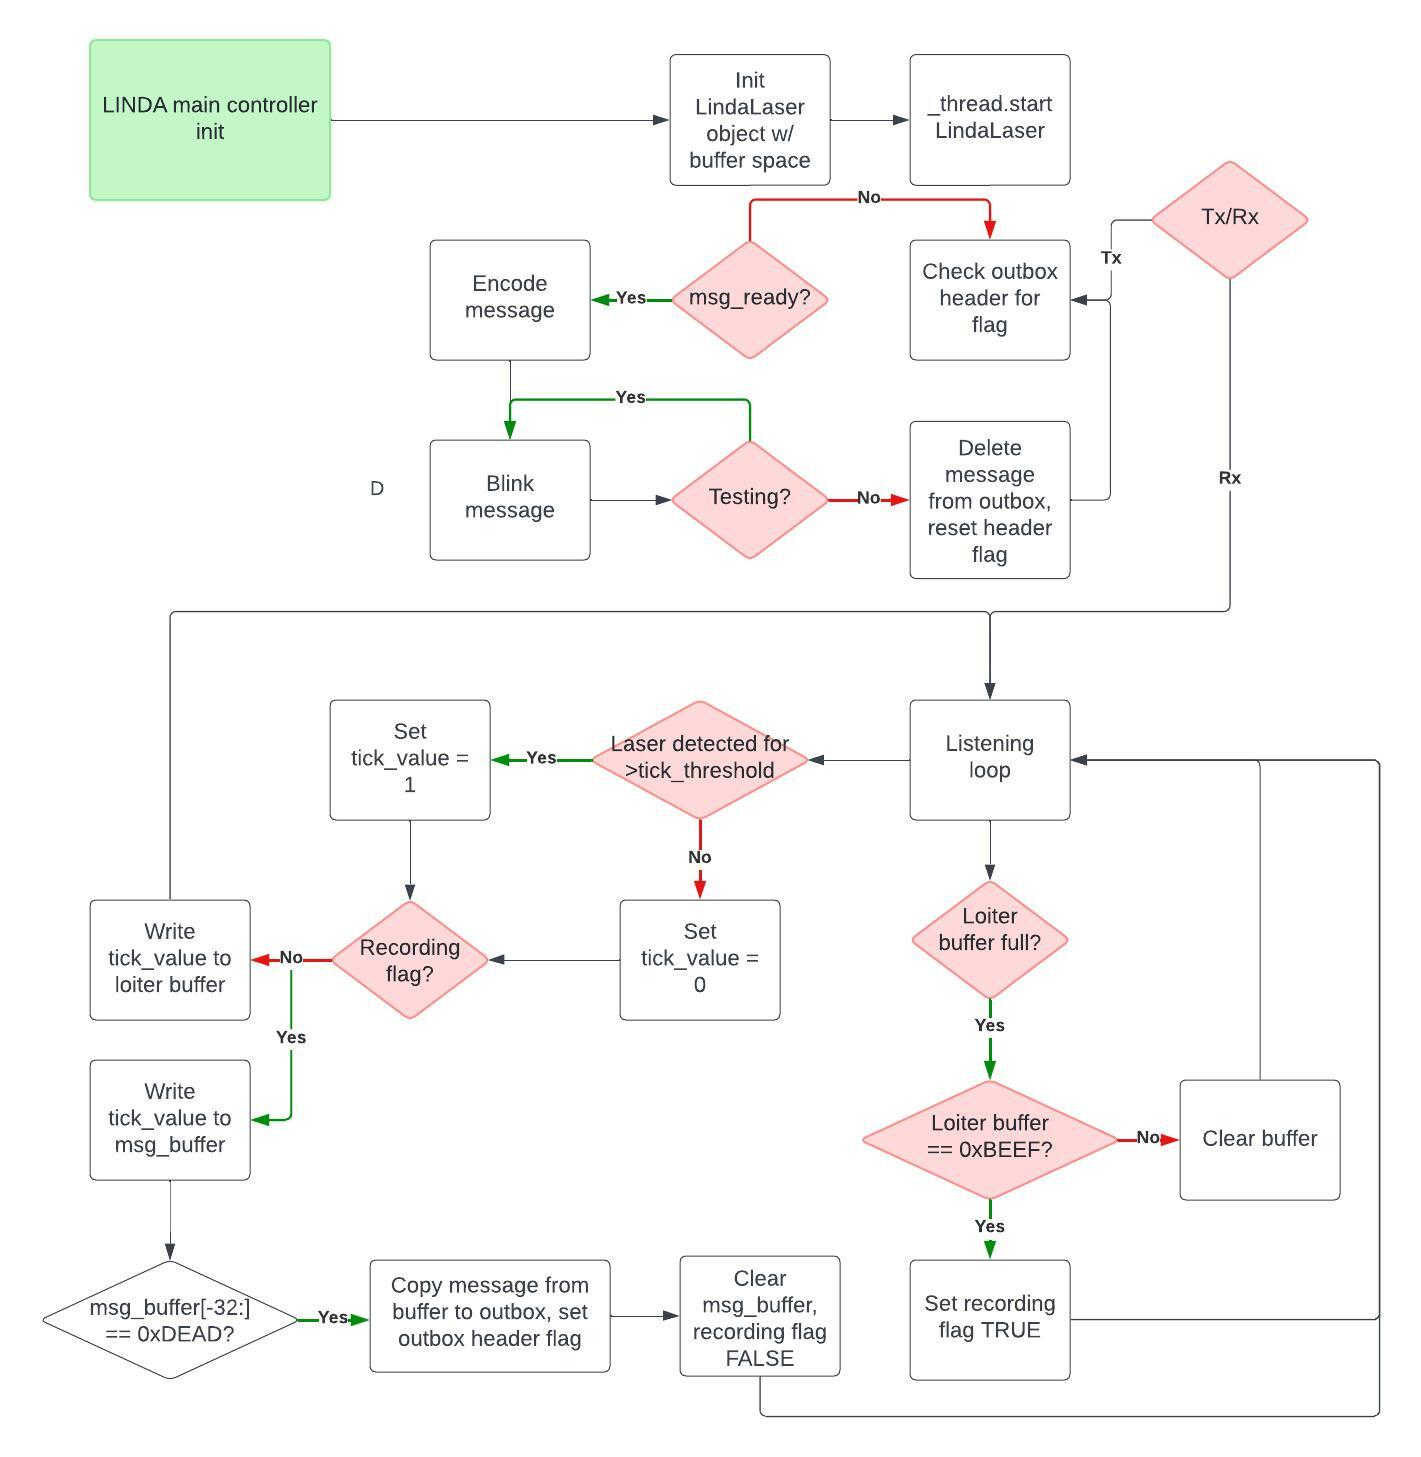
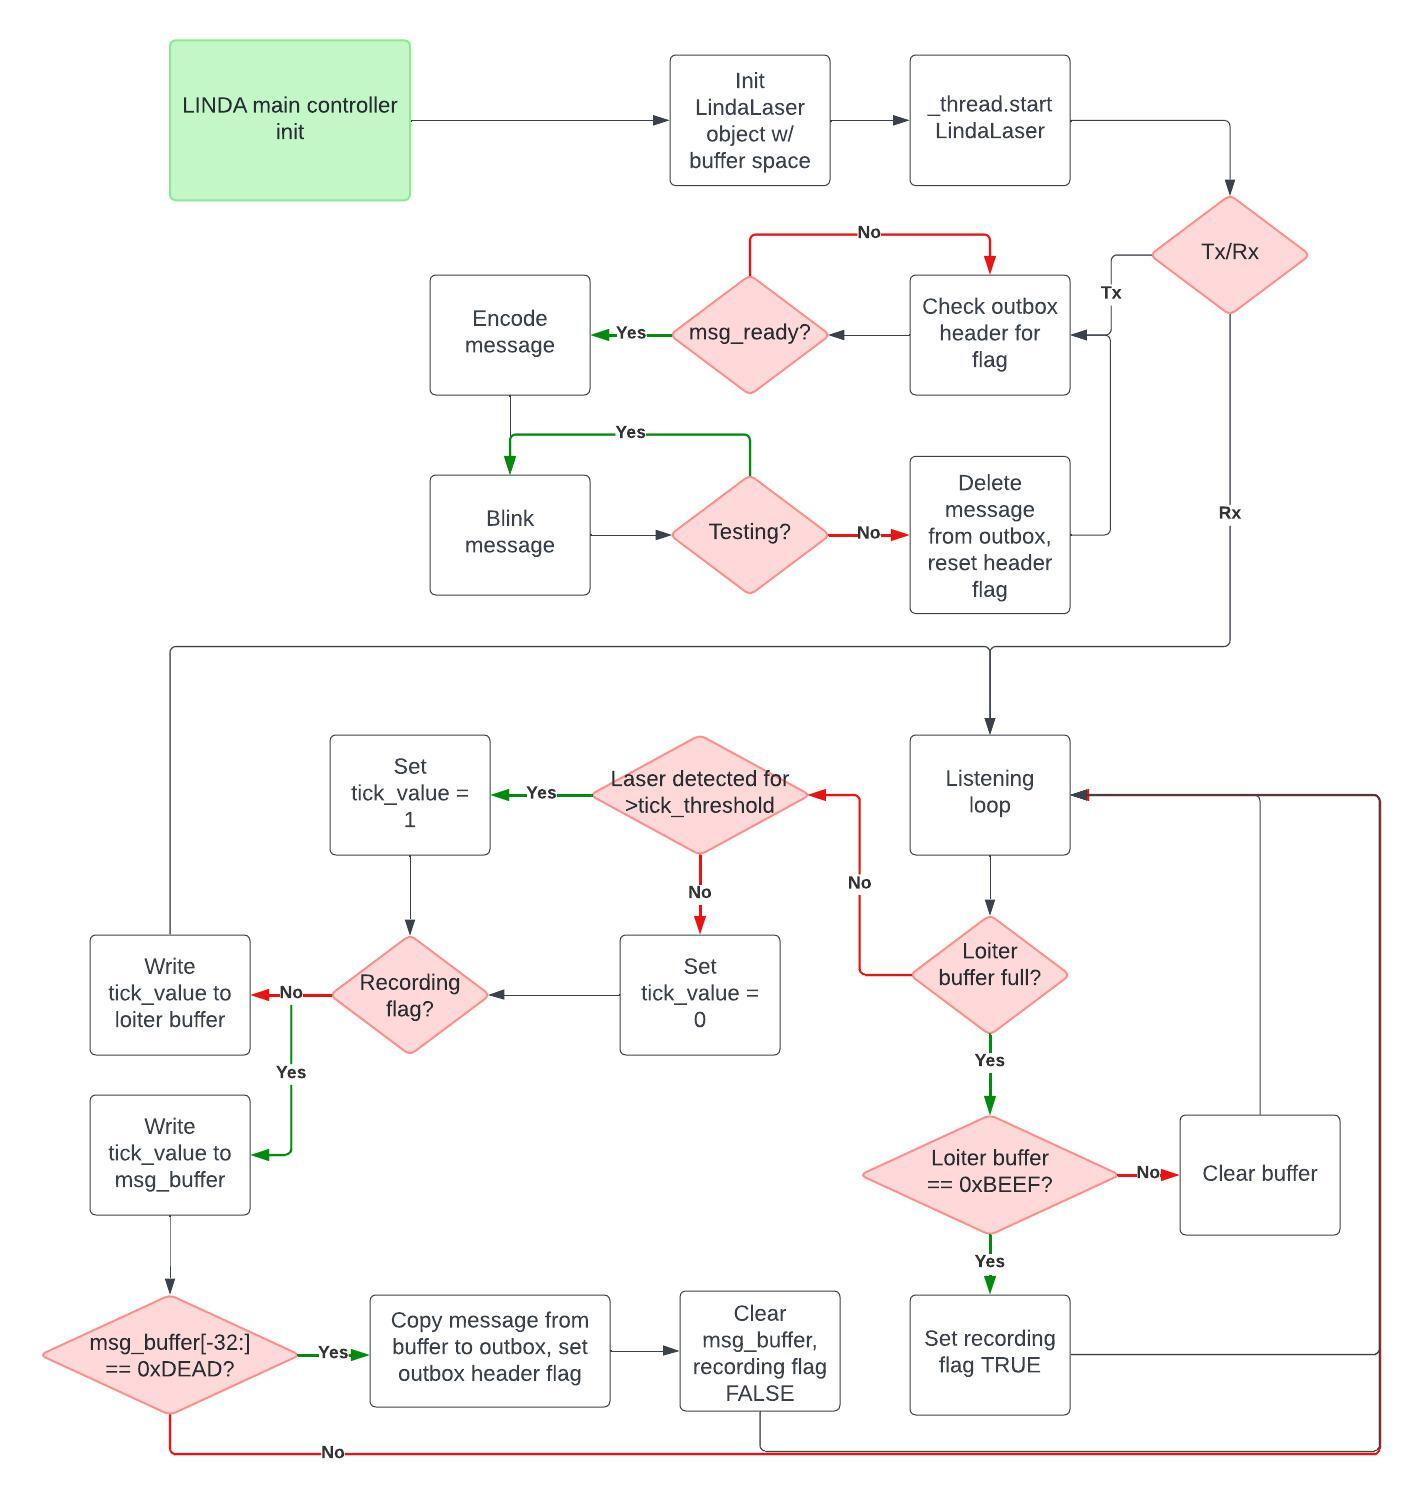
Readme and documentation -- block diagram and laser module flowchart

diff --git a/README.md b/README.md
@@ -6,6 +6,12 @@ Laser Interface Networking Doohickey for AMSAT -- MicroPython Implementation
 
 The Laser Interface Networking Doohickey for AMSAT (LINDA) is a subsystem which implements proof-of-concept laser communications for the [AMSAT CubeSatSim](https://github.com/alanbjohnston/CubeSatSim). It is designed around a Sparkfun Thing Plus RP2040 microcontroller, and uses a generic 650nm laser pointer and laser sensor to implement a basic free-space optical communication link between two LINDA subsystems.
 
+### Block Diagram
+
+![Linda Block Diagram](./doc/LINDA%20Block%20Diagram.jpeg)
+
+### Laser Submodule Flowchart
+
 ![LINDA Laser Submodule Flowchart](./doc/LINDA%20Laser%20Flowchart.jpeg)
 
 ### Installation
